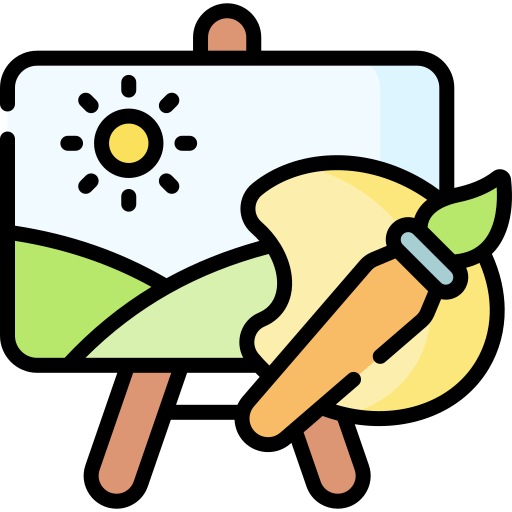
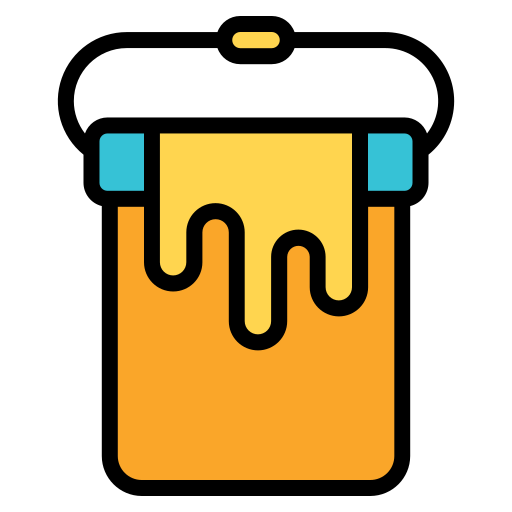
Made nav bar horizontal

diff --git a/index.html b/index.html
@@ -9,14 +9,14 @@
 
     <body>
         <header>
-            <nav class="main-menu">
+            <nav class="navbar">
             <ul>
                 <li><a href="#home">Home</a></li>
                 <li><a href="#road-maps">Roadmaps</a></li>
                 <li><a href="#about">About</a></li>
                 <li><a href="#contact">Contact</a></li>
                 <li><a href="#leave-a-comment">Leave a comment</a></li>
-            </u>
+            </ul>
         </nav>
         
         </header>

diff --git a/main.css b/main.css
@@ -3,6 +3,15 @@ body{
     
 }
 
+.navbar ul {
+    list-style-type: none; /* Removes the bullet points */
+    display: flex;         /* Forces the items onto a single horizontal line */
+    gap: 25px;             /* Adds spacing between your links */
+    padding: 15px;         /* Adds vertical padding inside the bar */
+}
+
+
+
 h1,h3,p{
     color:white
 }
